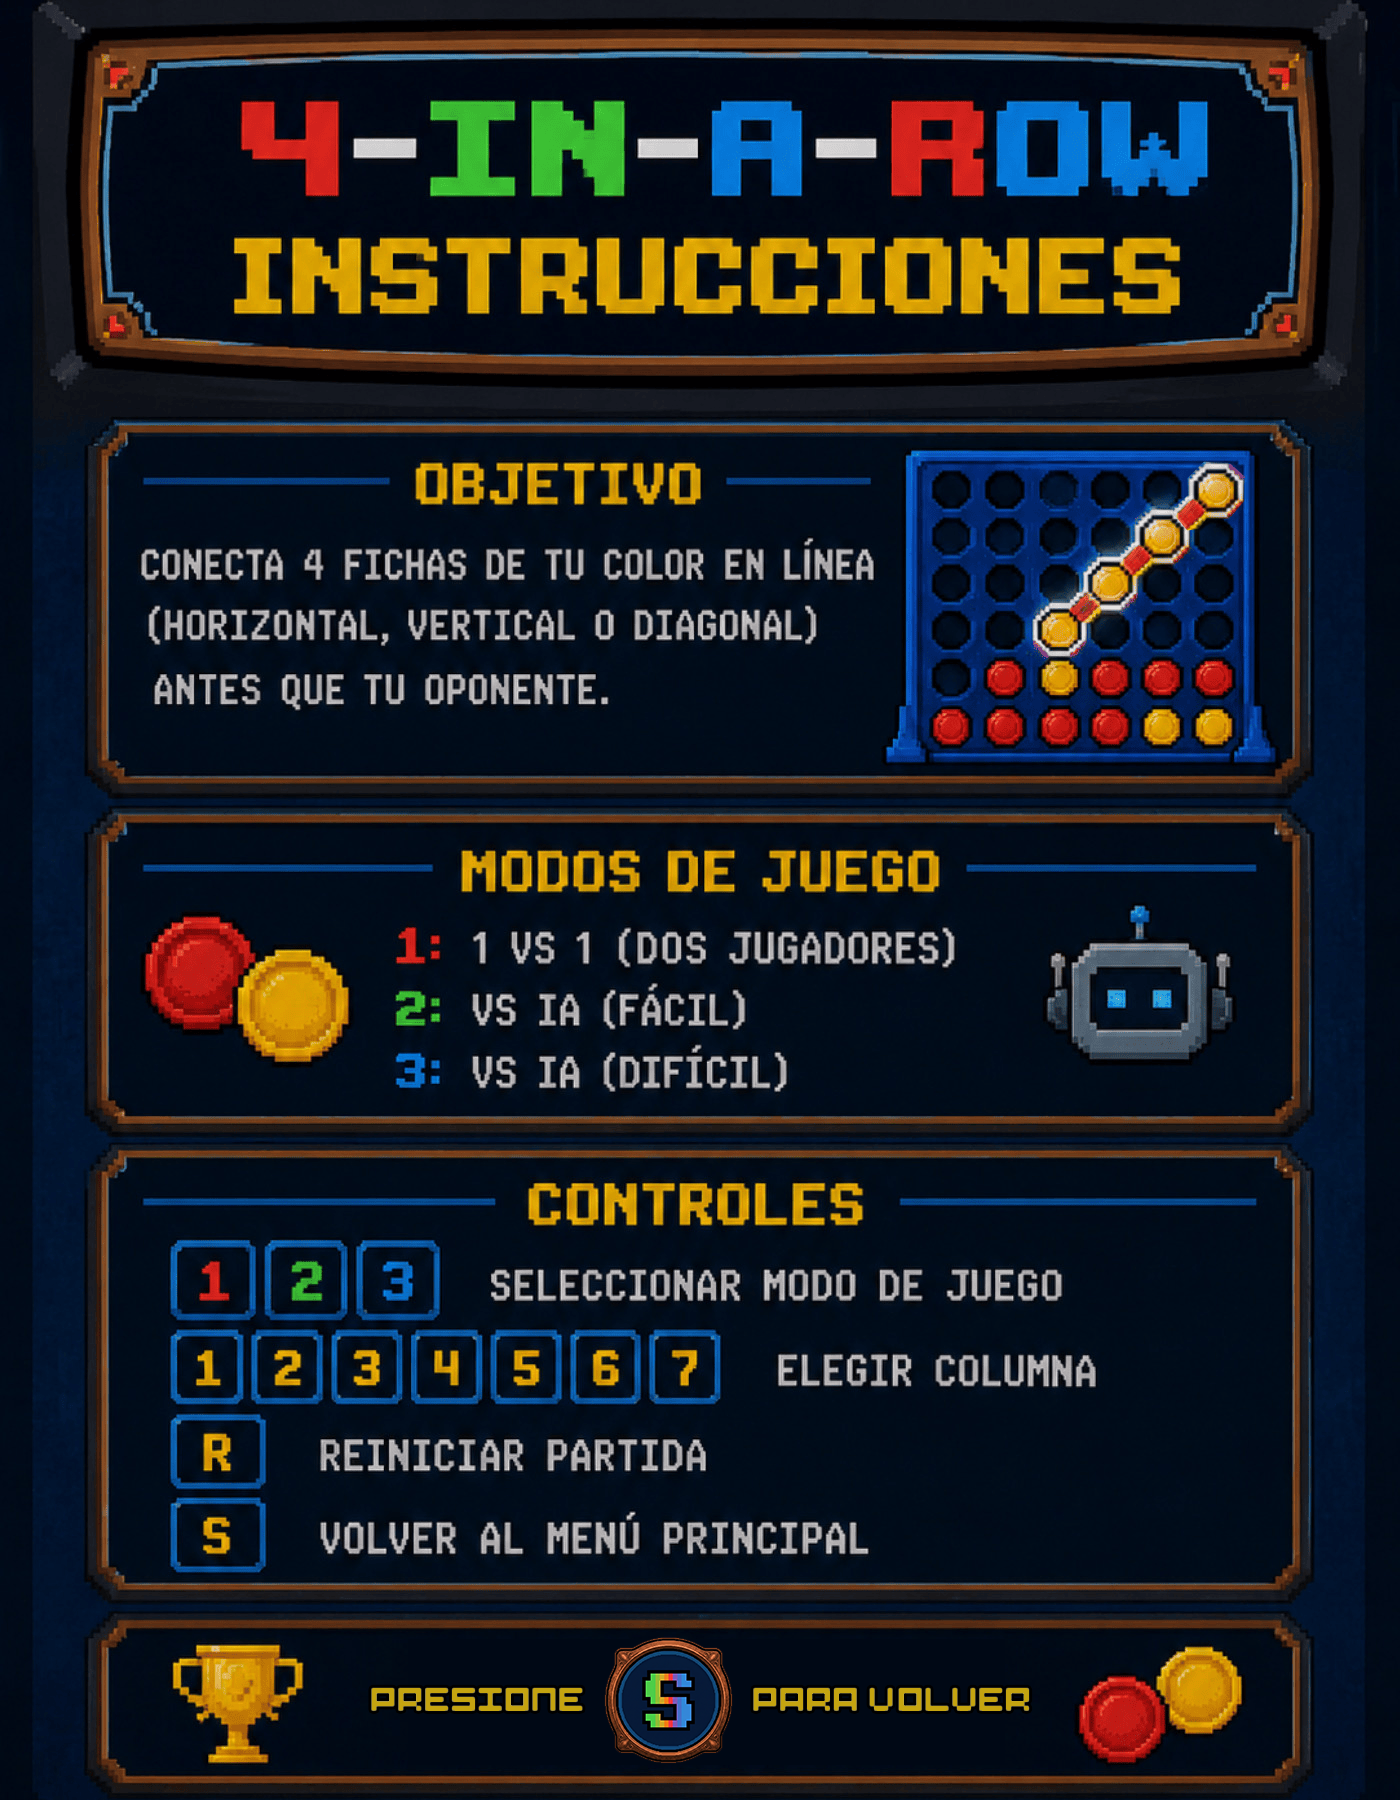
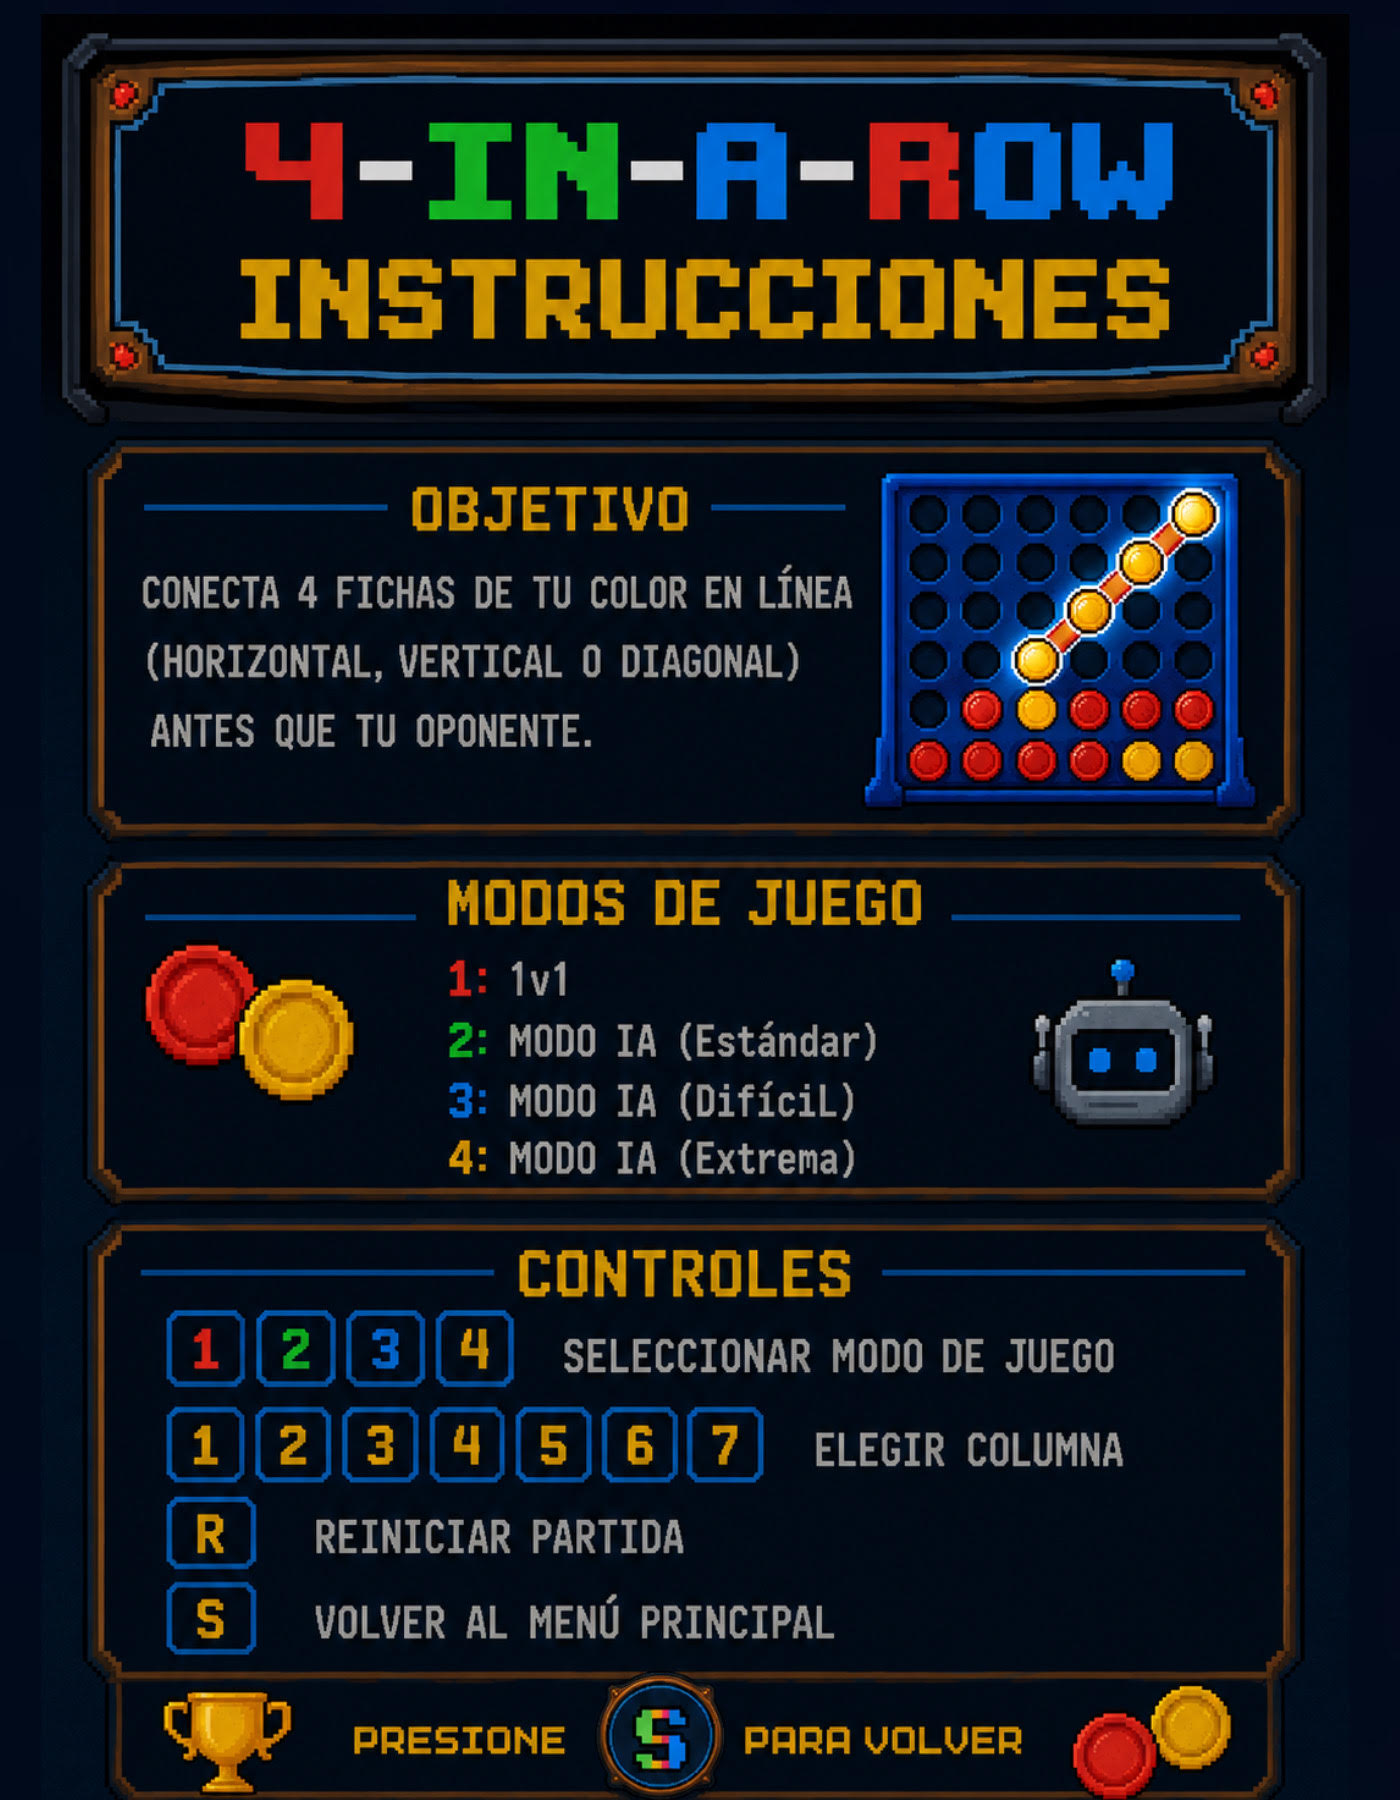
README modificado, incorporacion de empate, imagenes modificadas

diff --git a/README.md b/README.md
@@ -1,10 +1,11 @@
-# Nombre del juego (<- borrar y completar)
+# Cuatro-en-Linea
 
 ## Equipo de desarrollo
 
-- Alguien
-- Persona
-- etc.
+- Borinsky Tomas
+- Lopez Axel
+- Racedo Kevin
+- Katia Soler
 - Narancio D. Lucas
 
 ## Capturas
@@ -12,12 +13,57 @@
 (agregar)
 
 ## Reglas de Juego / Instrucciones
+# 🎮 Cómo jugar
 
-(Escribirlas)
+**4-in-a-Row** es una versión del clásico **Cuatro en Línea**. El objetivo del juego es ser el primero en conectar cuatro fichas consecutivas de tu color antes que tu oponente.
+
+## 🎯 Objetivo
+
+Conectá **4 fichas de tu color** en una línea:
+
+- Horizontal
+- Vertical
+- Diagonal
+
+## 🎮 Modos de juego
+
+El juego cuenta con cuatro modos:
+
+- **1 vs 1:** Dos jugadores comparten el mismo teclado.
+- **VS IA (Estándar):** La IA realiza movimientos básicos y es ideal para principiantes.
+- **VS IA (Difícil):** La IA utiliza una estrategia más inteligente y representa un mayor desafío.
+- **VS IA (Extrema):** La IA juega con su mejor estrategia, buscando aprovechar cada oportunidad para ganar y bloquear tus jugadas.
+## ⌨ Controles
+
+| Tecla | Acción |
+|:-----:|--------|
+| **1** | Iniciar modo **1 vs 1** |
+| **2** | Iniciar modo **VS IA (Estándar)** |
+| **3** | Iniciar modo **VS IA (Difícil)** |
+| **4** | Iniciar modo **VS IA (Extrema)** |
+| **1 - 7** | Elegir la columna donde caerá la ficha |
+| **R** | Reiniciar la partida |
+| **S** | Volver al menú principal |
+
+## 📖 Mecánica del juego
+
+1. Elegí el modo de juego seleccionando la tecla del número correspondiente al nivel que se quiera jugar.
+2. En cada turno, seleccioná una columna presionando una tecla del **1 al 7**.
+3. La ficha caerá automáticamente hasta la posición libre más baja de la columna.
+4. Los jugadores alternan turnos hasta que uno consiga conectar cuatro fichas o el tablero se llene.
+5. Si el tablero se llena y nadie conecta cuatro fichas, la partida termina en **empate**.
+
+## 🏆 Condición de victoria
+
+Ganará el jugador que consiga conectar **cuatro fichas consecutivas** de su color en cualquier dirección:
+
+- ➖ Horizontal
+- ➖ Vertical
+- ➖ Diagonal
 
 
 ## Otros
 
-- materia: Programación con objetos 1 / Universidad Nacional de Hurlingham
-- Versión de wollok
-- Una vez terminado, no tenemos problemas en que el repositorio sea público / queremos manternerlo privado
+- Materia: Programación con objetos 1 / Universidad Nacional de Hurlingham
+- Versión de wollok : 4.2.3
+- Una vez terminado, no tenemos problemas en que el repositorio sea público 
